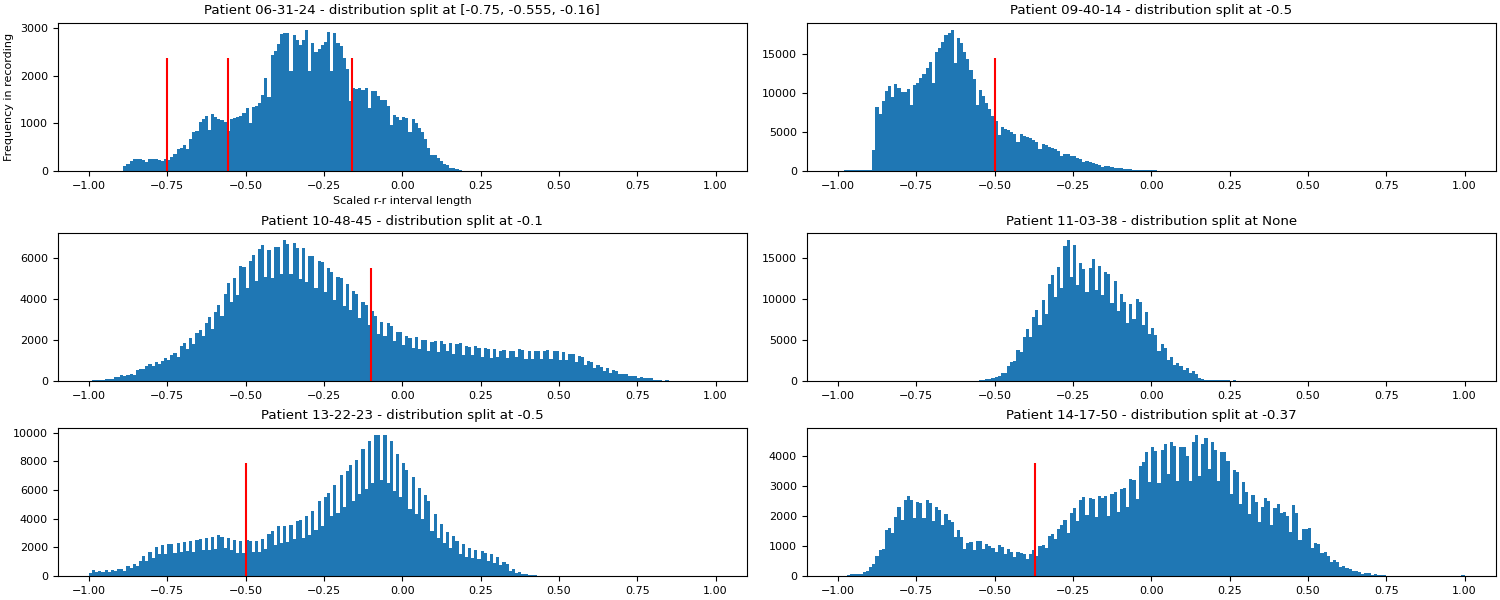
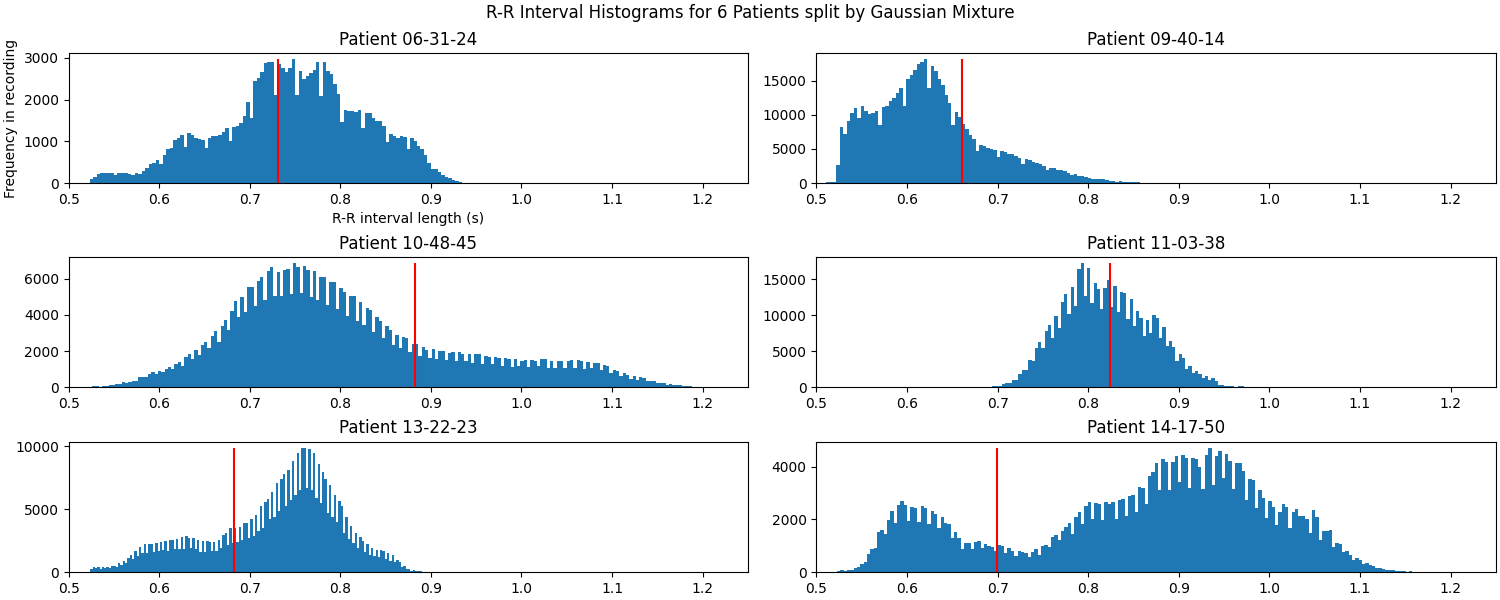
added gaussian mixture bin splitting

diff --git a/create_analysis_plots.py b/create_analysis_plots.py
@@ -1,0 +1,75 @@
+"""
+Mira Welner
+August 2025
+
+This script loads the heartrate data generated in generate_processed_heartrate.py and displays the histograms and the heartrates themselves.
+"""
+
+import numpy as np
+import matplotlib.pyplot as plt
+from sklearn.mixture import GaussianMixture
+
+#data processing params
+patient_names = '06-31-24', '09-40-14', '10-48-45', '11-03-38', '13-22-23', '14-17-50'
+split_locs = [-0.75, -0.555, -0.16], -0.5, -0.1, None ,-0.5,-0.37
+snip_len = 2500
+
+def get_histograms(n_bins, name='dist_hist'):
+    """
+    Load data based on patient names and display histograms of the
+    heartrate distributions. Display the locations in which the distributions are split using
+    vertical lines.
+    """
+    _, axes = plt.subplots(len(patient_names)//2,2, figsize=(15,6), layout = "constrained")
+    axes = axes.flatten()
+    gmm = GaussianMixture(n_components=n_bins, random_state=42)
+    for itr, (patient,split) in enumerate(zip(patient_names,split_locs)):
+        heartrate_data = np.loadtxt(f'processed_data/heartrate_{patient}_unscaled.csv', delimiter=',')
+
+        # Fit GMM to raw data
+        gmm.fit(heartrate_data.reshape(-1, 1))
+
+        # Make histogram
+        hist, bin_edges = np.histogram(heartrate_data, bins=200)
+        bin_centers = (bin_edges[:-1] + bin_edges[1:]) / 2
+
+        # Predict label for each bin center
+        bin_labels = gmm.predict(bin_centers.reshape(-1, 1))
+
+        last_indices = np.sort(np.array([np.max(np.where(bin_labels == val)) for val in np.unique(bin_labels)]))[:-1]
+        # Plot
+        axes[itr].bar(bin_edges[:-1], hist, width=np.diff(bin_edges), align='edge')
+        axes[itr].set_title(f"Patient {patient}")
+        axes[itr].set_xlim(0.5, 1.25)
+        axes[itr].vlines(bin_edges[:-1][last_indices],ymin=0, ymax=max(hist), color='red')
+        if itr==0:
+            axes[itr].set_xlabel("R-R interval length (s)")
+            axes[itr].set_ylabel("Frequency in recording")
+    plt.suptitle("R-R Interval Histograms for 6 Patients split by Gaussian Mixture")
+    plt.savefig("figures/dist_hist.png")
+    plt.show()
+
+def get_dist_plots(name='dist_plot'):
+    if len(patient_names)//2:
+        _, axes = plt.subplots(len(patient_names)//2,2, figsize=(15,6), layout = "constrained")
+        axes = axes.flatten()
+    else:
+        _, axes = plt.subplots(1,1, figsize=(15,6), layout = "constrained")
+        axes = [axes]
+    for itr, (patient,split) in enumerate(zip(patient_names,split_locs)):
+        heartrate_data = np.loadtxt(f'processed_data/heartrate_{patient}_unscaled.csv',delimiter=',')
+        heartrate_data = heartrate_data[:-2] #remove min and max
+        axes[itr].plot(heartrate_data)
+        axes[itr].set_title(f"Patient {patient} - distribution split at {split}")
+        #if split:
+        #    axes[itr].hlines(split,xmin=0, xmax=len(heartrate_data), color='red')
+
+        axes[itr].set_xticks(range(0,len(heartrate_data), 2*10*60*60), [str(i) for i in range(0,int(np.ceil(len(heartrate_data)/(10*60*60))), 2)])
+        if itr==0:
+            axes[itr].set_ylabel("scaled r-r interval length")
+            axes[itr].set_xlabel("Time (h)")
+    plt.savefig(f"figures/{name}.png")
+    plt.show()
+
+get_histograms(2)
+get_dist_plots()

diff --git a/train_gan_heartrate.py b/train_gan_heartrate.py
@@ -62,48 +62,6 @@ def train_store_gan(train, name, just_load, epochs):
     gen.load_state_dict(torch.load(gan_name, weights_only=True))
     return gen
 
-def get_histograms(name='dist_hist'):
-    """
-    Load data based on patient names and display histograms of the
-    heartrate distributions. Display the locations in which the distributions are split using
-    vertical lines.
-    """
-    _, axes = plt.subplots(len(patient_names)//2,2, figsize=(15,6), layout = "constrained")
-    axes = axes.flatten()
-    for itr, (patient,split) in enumerate(zip(patient_names,split_locs)):
-        heartrate_data = np.loadtxt(f'processed_data/heartrate_{patient}.csv',delimiter=',')
-        heartrate_data = heartrate_data[:-2] #remove min and max
-        counts, _, _ = axes[itr].hist(heartrate_data, bins=200)
-        axes[itr].set_title(f"Patient {patient} - distribution split at {split}")
-        axes[itr].vlines(split,ymin=0, ymax=max(counts)*0.8, color='red')
-        if itr==0:
-            axes[itr].set_xlabel("Scaled r-r interval length")
-            axes[itr].set_ylabel("Frequency in recording")
-    plt.savefig("figures/dist_hist.png")
-    plt.show()
-
-def get_dist_plots(name='dist_plot'):
-    if len(patient_names)//2:
-        _, axes = plt.subplots(len(patient_names)//2,2, figsize=(15,6), layout = "constrained")
-        axes = axes.flatten()
-    else:
-        _, axes = plt.subplots(1,1, figsize=(15,6), layout = "constrained")
-        axes = [axes]
-    for itr, (patient,split) in enumerate(zip(patient_names,split_locs)):
-        heartrate_data = np.loadtxt(f'processed_data/heartrate_{patient}.csv',delimiter=',')
-        heartrate_data = heartrate_data[:-2] #remove min and max
-        axes[itr].plot(heartrate_data)
-        axes[itr].set_title(f"Patient {patient} - distribution split at {split}")
-        if split:
-            axes[itr].hlines(split,xmin=0, xmax=len(heartrate_data), color='red')
-
-        axes[itr].set_xticks(range(0,len(heartrate_data), 2*10*60*60), [str(i) for i in range(0,int(np.ceil(len(heartrate_data)/(10*60*60))), 2)])
-        if itr==0:
-            axes[itr].set_ylabel("scaled r-r interval length")
-            axes[itr].set_xlabel("Time (h)")
-    plt.savefig(f"figures/{name}.png")
-    plt.show()
-
 def split_patient(patient_name:str, split_loc:float, stride:int=snip_len//2):
     """
     split the data into two sets, one of which is a set of continuious snips greater than split_loc

diff --git a/neural_prophet.py b/neural_prophet.py
@@ -1,0 +1,72 @@
+"""
+Mira Welner
+August 4
+
+"""
+import logging
+logging.getLogger('neuralprophet').setLevel(logging.WARNING)
+
+from neuralprophet import NeuralProphet
+import numpy as np
+import pandas as pd
+import matplotlib.pyplot as plt
+
+snip_len=100
+m = NeuralProphet()
+m.set_plotting_backend("plotly")
+
+patient_names = '06-31-24', '09-40-14', '10-48-45', '11-03-38', '13-22-23', '14-17-50'
+patient_datasets = [np.loadtxt(f"processed_data/heartrate_{name}_unscaled.csv") for name in patient_names]
+
+for d in patient_datasets:
+    d = d[:snip_len].copy()
+    start_time = pd.to_datetime("2020-01-01 00:00:00")
+    time_index = pd.date_range(start=start_time, periods=len(d), freq='S')
+    df = pd.DataFrame({'ds': time_index, 'y': d})
+
+    # Split data in half
+    halfway = snip_len//2
+    df_train = df.iloc[:halfway].copy()
+    df_actual_future = df.iloc[halfway:].copy()
+
+    # Define model
+    m = NeuralProphet(
+        n_changepoints=20,
+        daily_seasonality=True,
+        n_lags=halfway//2,
+        n_forecasts=halfway//2
+    )
+    _ = m.fit(df_train)
+    future_it1 = m.make_future_dataframe(df_train, periods=1, n_historic_predictions=True)
+    forecast = m.predict(future_it1)
+    forecast_only = forecast[f'yhat{halfway//2}'].iloc[halfway:].copy()
+    future_it1['y'].iloc[halfway:]  = forecast_only
+
+    m2 = NeuralProphet(
+        n_changepoints=20,
+        daily_seasonality=True,
+        n_lags=halfway//2,
+        n_forecasts=halfway//2
+    )
+    _ = m2.fit(future_it1.iloc[halfway//2:])
+    future_it2 = m2.make_future_dataframe(future_it1, periods=1, n_historic_predictions=True)
+    print(future_it2.shape)
+    break
+    forecast = m.predict(future_it2)
+    forecast_only = forecast[f'yhat{halfway//2}'].iloc[int(halfway*1.5):].copy()
+    future_it2['y'].iloc[int(halfway*1.5):]  = forecast_only
+    train_and_firstcast = pd.concat([df_train, forecast_only], ignore_index=True)
+    # Plot
+
+    print(future_it2.shape)
+    print(df_actual_future.shape)
+
+    plt.figure(figsize=(12, 4))
+    plt.plot(future_it2['y'], label='predicted', alpha=0.5)
+    plt.plot(df_actual_future['y'], label='actual', alpha=0.5)
+    plt.title("Recursive Forecast on Future Half")
+    plt.legend()
+    plt.tight_layout()
+    plt.show()
+
+    break  # only for one patient

diff --git a/train_gan_square_tri_loop.py b/train_gan_square_tri_loop.py
@@ -109,12 +109,12 @@ def make_train_test_dataloaders(square_data, triangle_data):
 
 def train_store_gan(train_square, train_triangle, gen_name = '', epochs=100, just_load=False):
     if not just_load:
-        gen_square, _ = train_wgan(train_square, epochs=epochs)
+        gen_square, _ = train_wgan(train_square, signal_length = 2500, epochs=epochs)
         torch.save(gen_square.state_dict(), f"models/generator_square_{gen_name}.pth")
-        gen_triangle, _ = train_wgan(train_triangle, epochs=epochs)
+        gen_triangle, _ = train_wgan(train_triangle,signal_length = 2500,  epochs=epochs)
         torch.save(gen_triangle.state_dict(), f"models/generator_triangle_{gen_name}.pth")
 
-    gen_triangle, gen_square = Generator().cuda(), Generator().cuda()
+    gen_triangle, gen_square = Generator(signal_length = 2500, latent_dim=100).cuda(), Generator(signal_length = 2500,  latent_dim=100).cuda()
     gen_triangle.load_state_dict(torch.load(f"models/generator_triangle_{gen_name}.pth", weights_only=True))
     gen_square.load_state_dict(torch.load(f"models/generator_square_{gen_name}.pth", weights_only=True))
     return gen_square, gen_triangle

diff --git a/process_data.py b/process_data.py
@@ -4,10 +4,14 @@ June 2025
 
 This script loads Dr Dey's heartrate data and sorts it. It then appends the raw rr data per each patient to
 an array and prints that array to a csv corresponding to the patient.
+
+It creates 2 csvs per patient. One is for the GAN, and it contains the data scaled between -1 and 1. Appended to the end of the CSV are the min value
+and max value, so that the CSV can be un-scaled when it is displayed in a plot.
+
+The other CSV is for the neural prophet, and is not scaled.
 """
 
 import numpy as np
-from scipy.interpolate import interp1d
 import glob
 heartrate_hz = 10 #the x values are 10th of a second
 ecg_hz = 500
@@ -35,6 +39,8 @@ def process_patient_data(name:str, parts:int):
 
 
     np.savetxt(f"processed_data/heartrate_{name}.csv", np.append(x_scaled,np.array([min,max])), delimiter = ",")
+    np.savetxt(f"processed_data/heartrate_{name}_unscaled.csv", np.array(all_rr), delimiter = ",")
+
 
 process_patient_data('06-31-24', parts=2)
 process_patient_data('09-40-14', parts=5)

diff --git a/README.md b/README.md
@@ -1,0 +1,6 @@
+## Heartrate Analysis
+Mira Welner
+
+August 2025
+
+This project takes in Dr. Dey's heartrate data and analyses it with both a [Wasserstein GAN with Gradient Penalty (WGAN-GP)](https://arxiv.org/abs/1704.00028), and a [neural prophet network](https://neuralprophet.com/).
